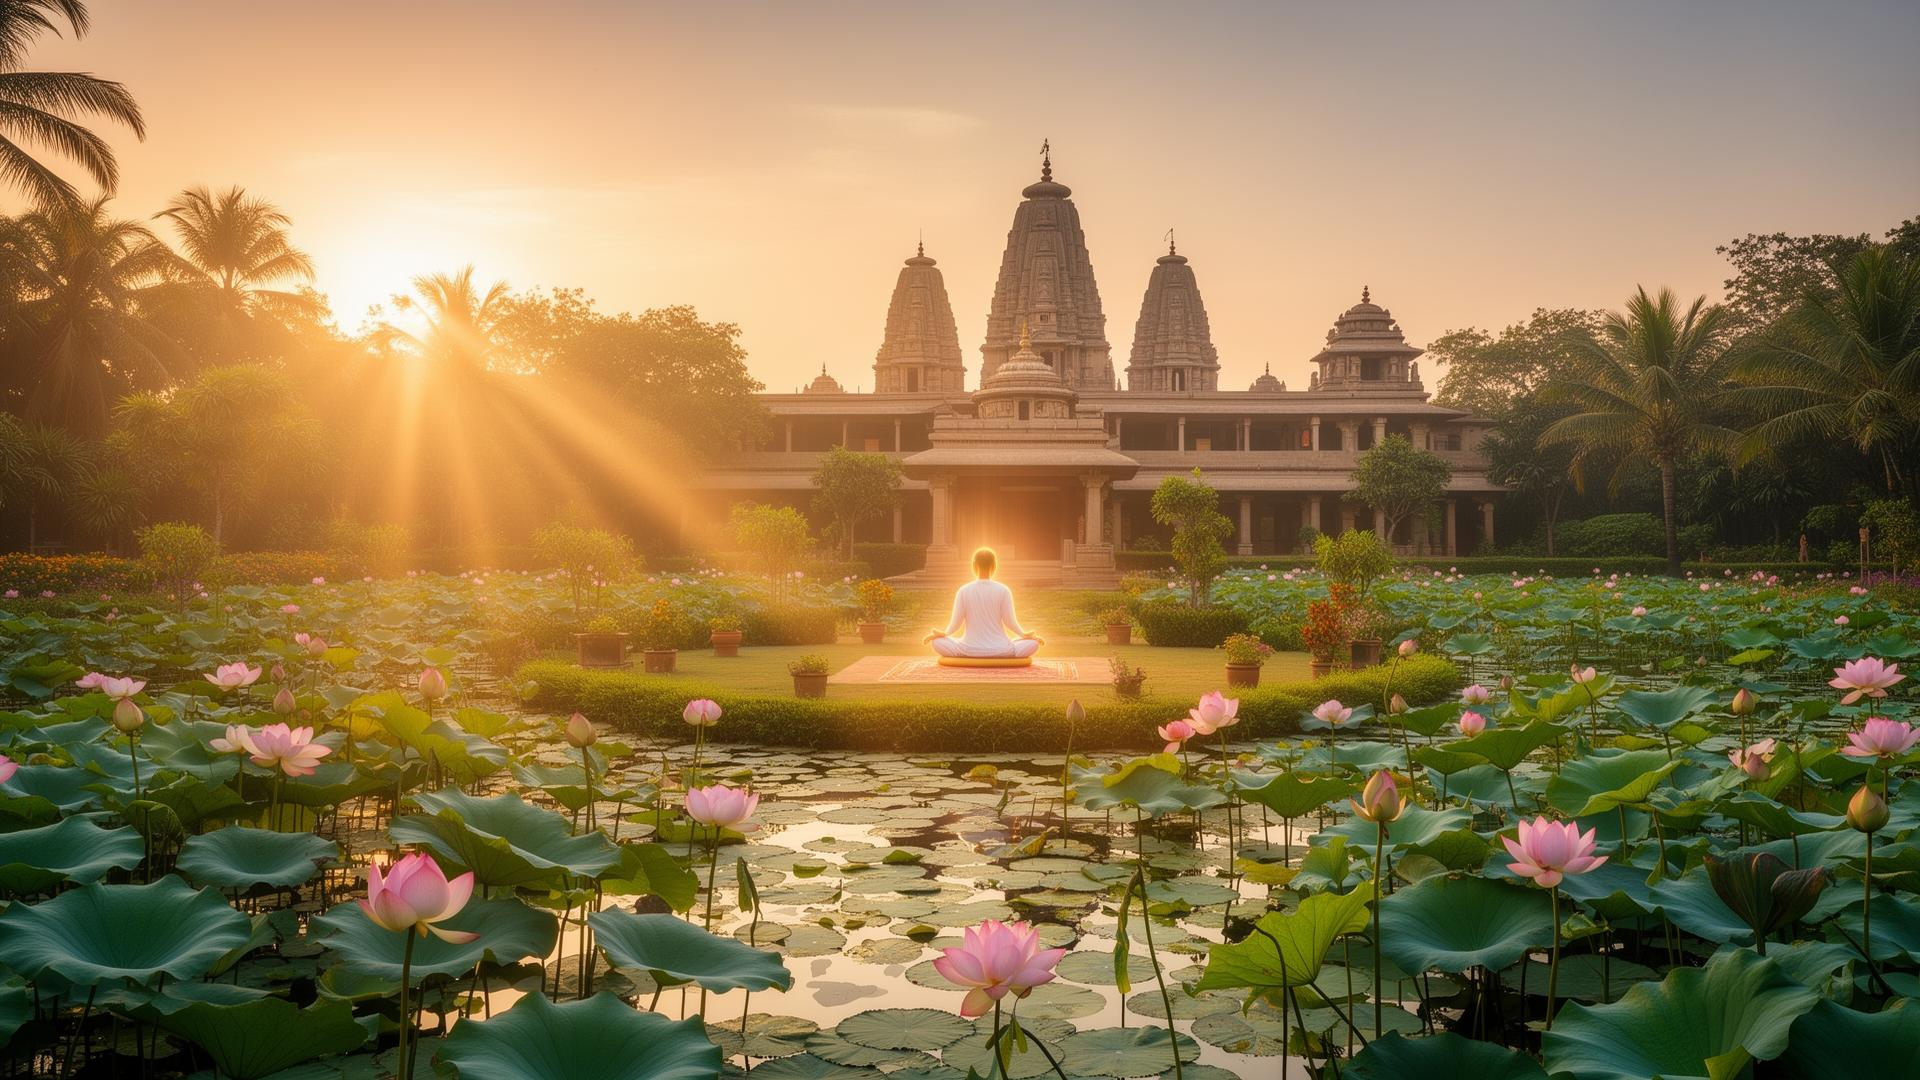
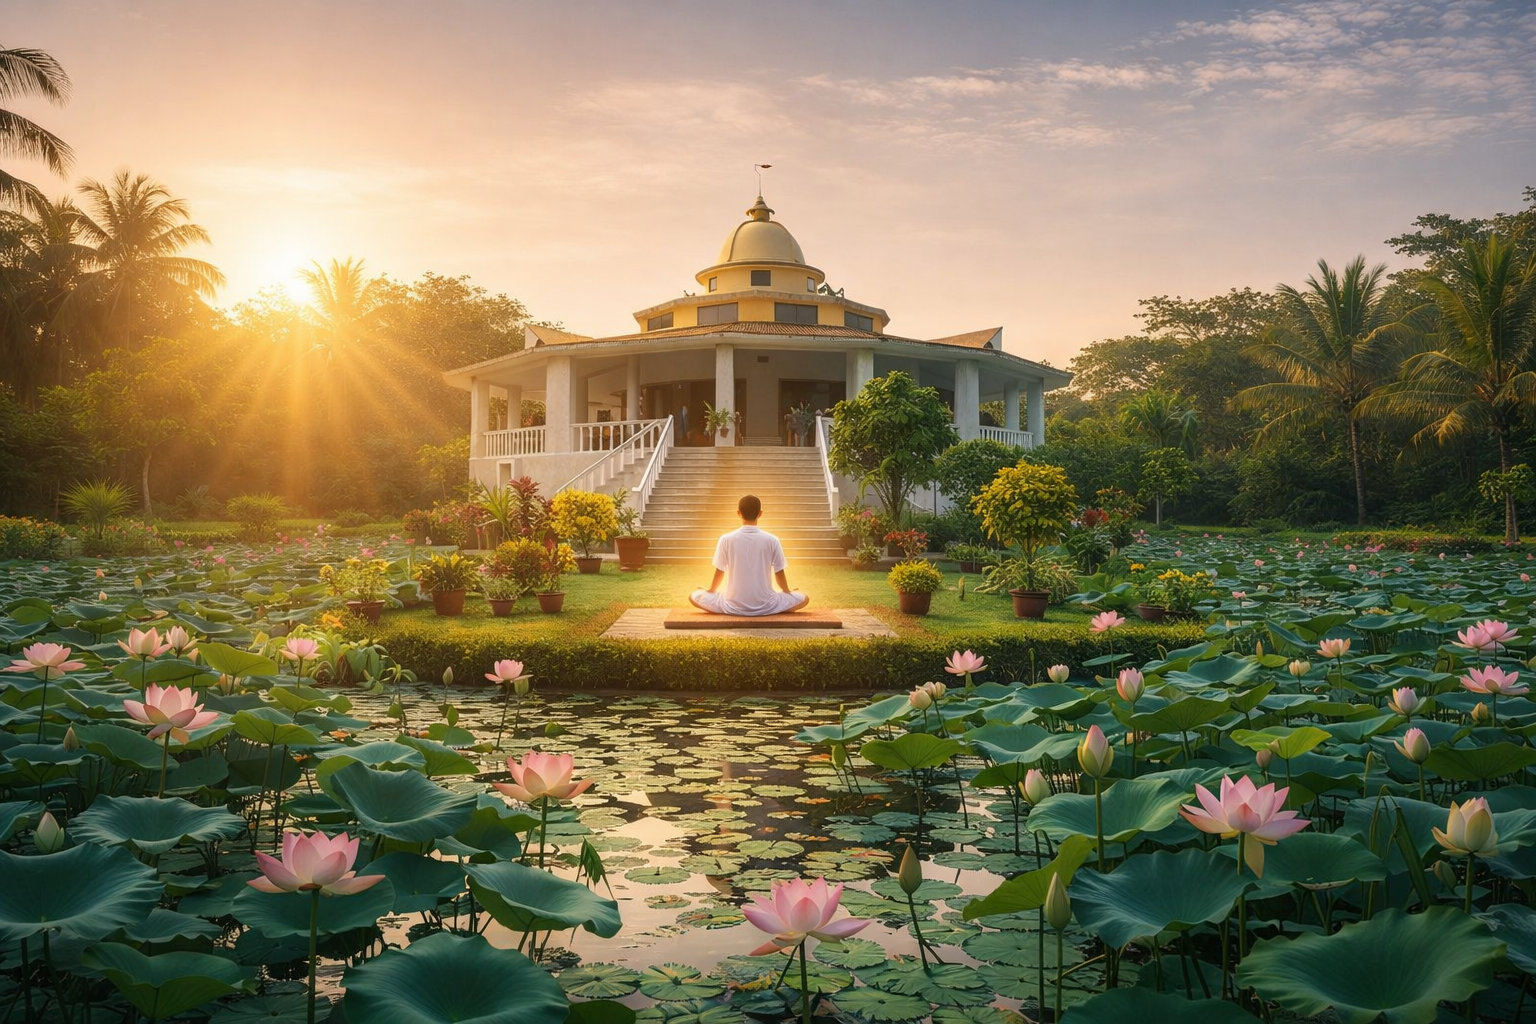
Added 4 new images to gallery

diff --git a/src/pages/Gallery.tsx b/src/pages/Gallery.tsx
@@ -9,6 +9,10 @@ import womenImg from "@/assets/women-empowerment.jpg";
 import healthImg from "@/assets/health.jpg";
 import templeImg from "@/assets/temple-drone.jpg";
 import relicsImg from "@/assets/sacred-relics.jpg";
+import gallery1 from "@/assets/gallery-1.jpg";
+import gallery2 from "@/assets/gallery-2.jpg";
+import gallery3 from "@/assets/gallery-3.jpg";
+import gallery4 from "@/assets/gallery-4.jpg";
 
 const categories = [
   { id: "all", labelEn: "All", labelHi: "सभी" },
@@ -28,14 +32,18 @@ const galleryImages = [
   { src: educationImg, category: "service", titleEn: "Education Program", titleHi: "शिक्षा कार्यक्रम" },
   { src: womenImg, category: "service", titleEn: "Women Empowerment", titleHi: "महिला सशक्तिकरण" },
   { src: healthImg, category: "service", titleEn: "Health Camp", titleHi: "स्वास्थ्य शिविर" },
+  { src: gallery1, category: "events", titleEn: "Temple Premises", titleHi: "मंदिर का परिसर" },
+  { src: gallery2, category: "events", titleEn: "Evening View", titleHi: "शाम का दृश्य" },
+  { src: gallery3, category: "events", titleEn: "Temple Architecture", titleHi: "मंदिर की वास्तुकला" },
+  { src: gallery4, category: "events", titleEn: "Sacred Atmosphere", titleHi: "पवित्र वातावरण" },
 ];
 
 const Gallery = () => {
   const [activeCategory, setActiveCategory] = useState("all");
   const [selectedImage, setSelectedImage] = useState<typeof galleryImages[0] | null>(null);
 
-  const filteredImages = activeCategory === "all" 
-    ? galleryImages 
+  const filteredImages = activeCategory === "all"
+    ? galleryImages
     : galleryImages.filter(img => img.category === activeCategory);
 
   return (
@@ -65,11 +73,10 @@ const Gallery = () => {
               <button
                 key={category.id}
                 onClick={() => setActiveCategory(category.id)}
-                className={`px-4 py-2 rounded-full text-sm font-medium transition-colors ${
-                  activeCategory === category.id
-                    ? "bg-gold text-primary-foreground"
-                    : "bg-cream text-foreground hover:bg-gold/10"
-                }`}
+                className={`px-4 py-2 rounded-full text-sm font-medium transition-colors ${activeCategory === category.id
+                  ? "bg-gold text-primary-foreground"
+                  : "bg-cream text-foreground hover:bg-gold/10"
+                  }`}
               >
                 {category.labelEn}
                 <span className="text-xs ml-1 opacity-70">({category.labelHi})</span>
@@ -110,7 +117,7 @@ const Gallery = () => {
 
       {/* Lightbox */}
       {selectedImage && (
-        <div 
+        <div
           className="fixed inset-0 z-50 bg-foreground/90 flex items-center justify-center p-4"
           onClick={() => setSelectedImage(null)}
         >
